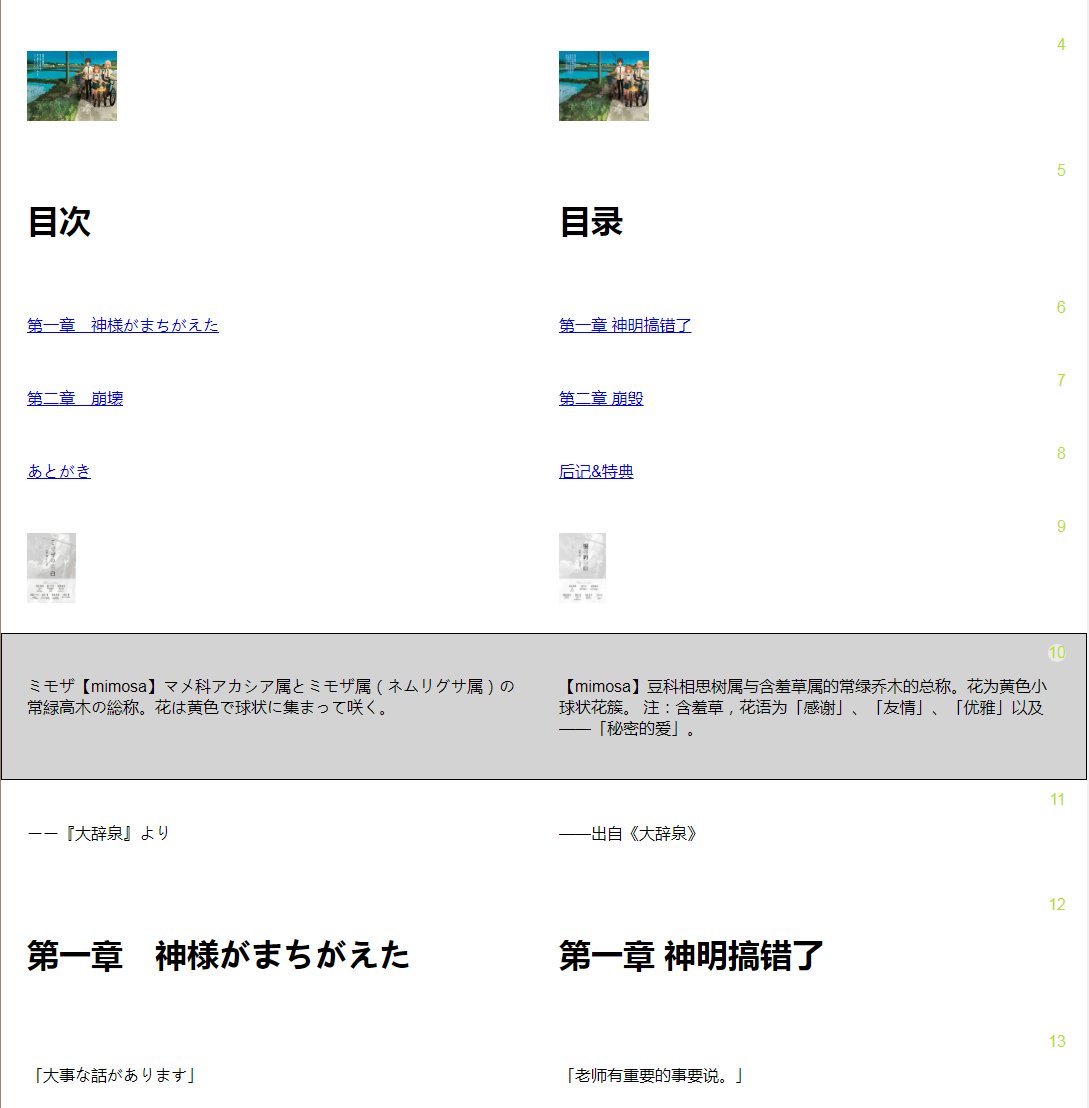
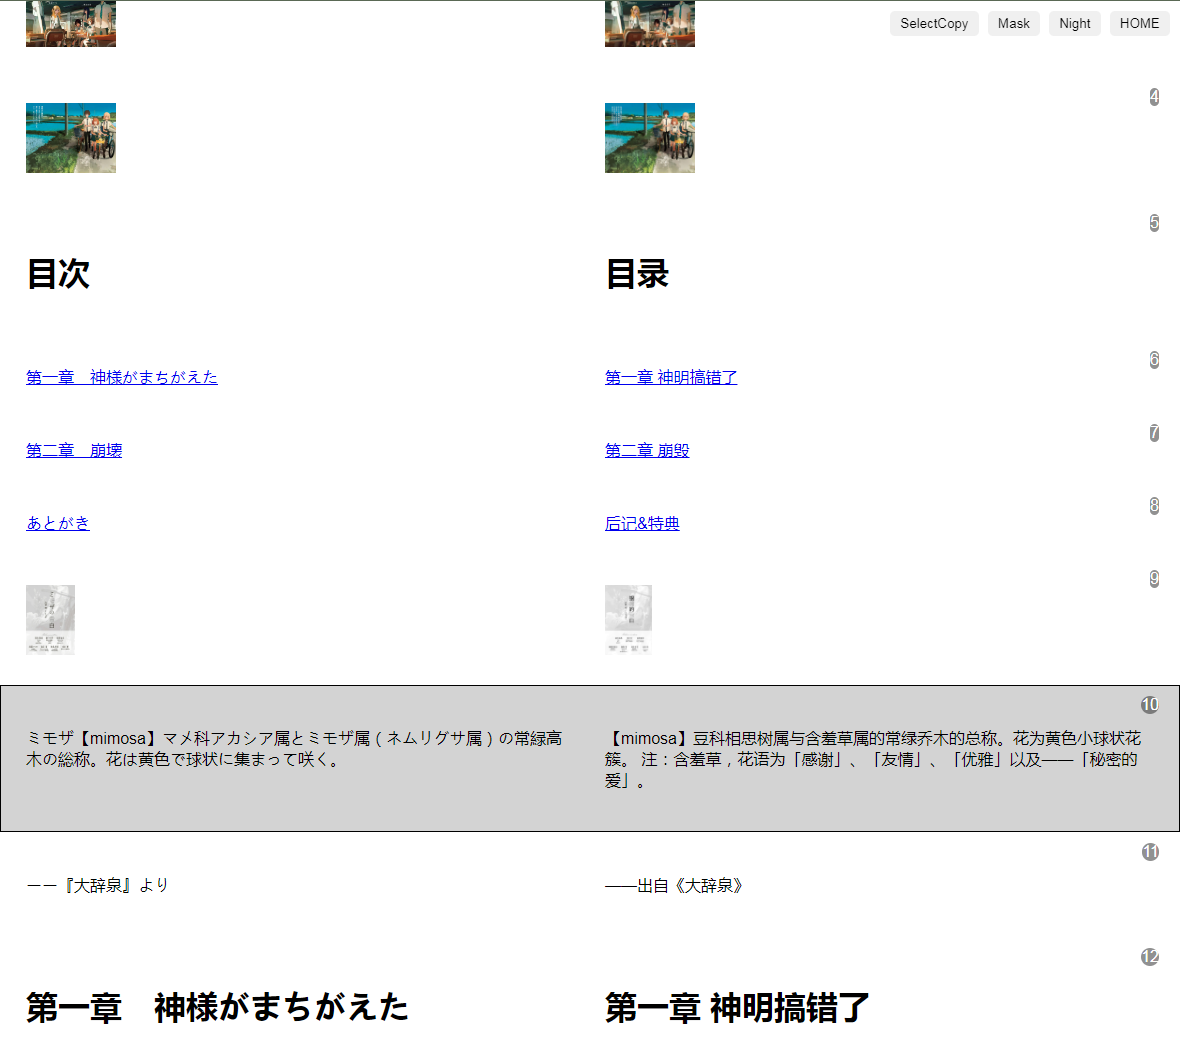
readme

diff --git a/README.md b/README.md
@@ -1,0 +1,10 @@
+这是一个中日双语轻小说书库，希望能对您的语言学习有帮助
+
+## 使用
+1. 默认高亮点选的句子并且复制日文到剪切板，可点击 <kbd>SelectCopy</kbd> 切换成复制选中文本，都是默认去除振假名；
+2. 键盘方向键 <kbd>↑</kbd> 上一句 和 <kbd>↓</kbd> 上一句，也会触发复制（受复制开关控制）；
+3. 蒙版模式 <kbd>Mark</kbd> 仅显示选中的文本，其余隐藏；
+
+## 预览
+![预览1](doc/home.png)
+![预览2](doc/preview.png)
